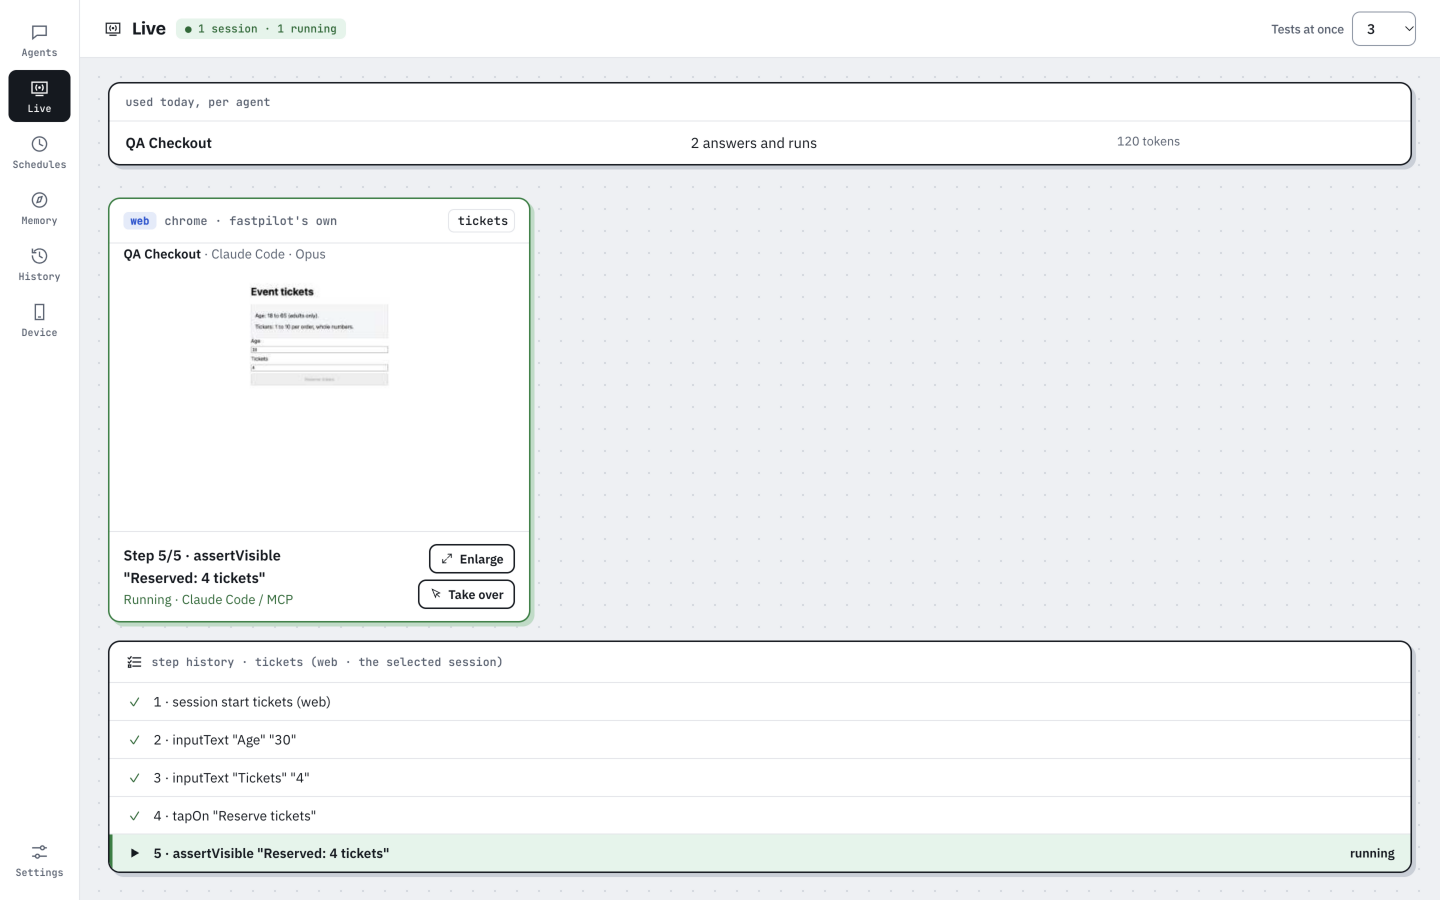
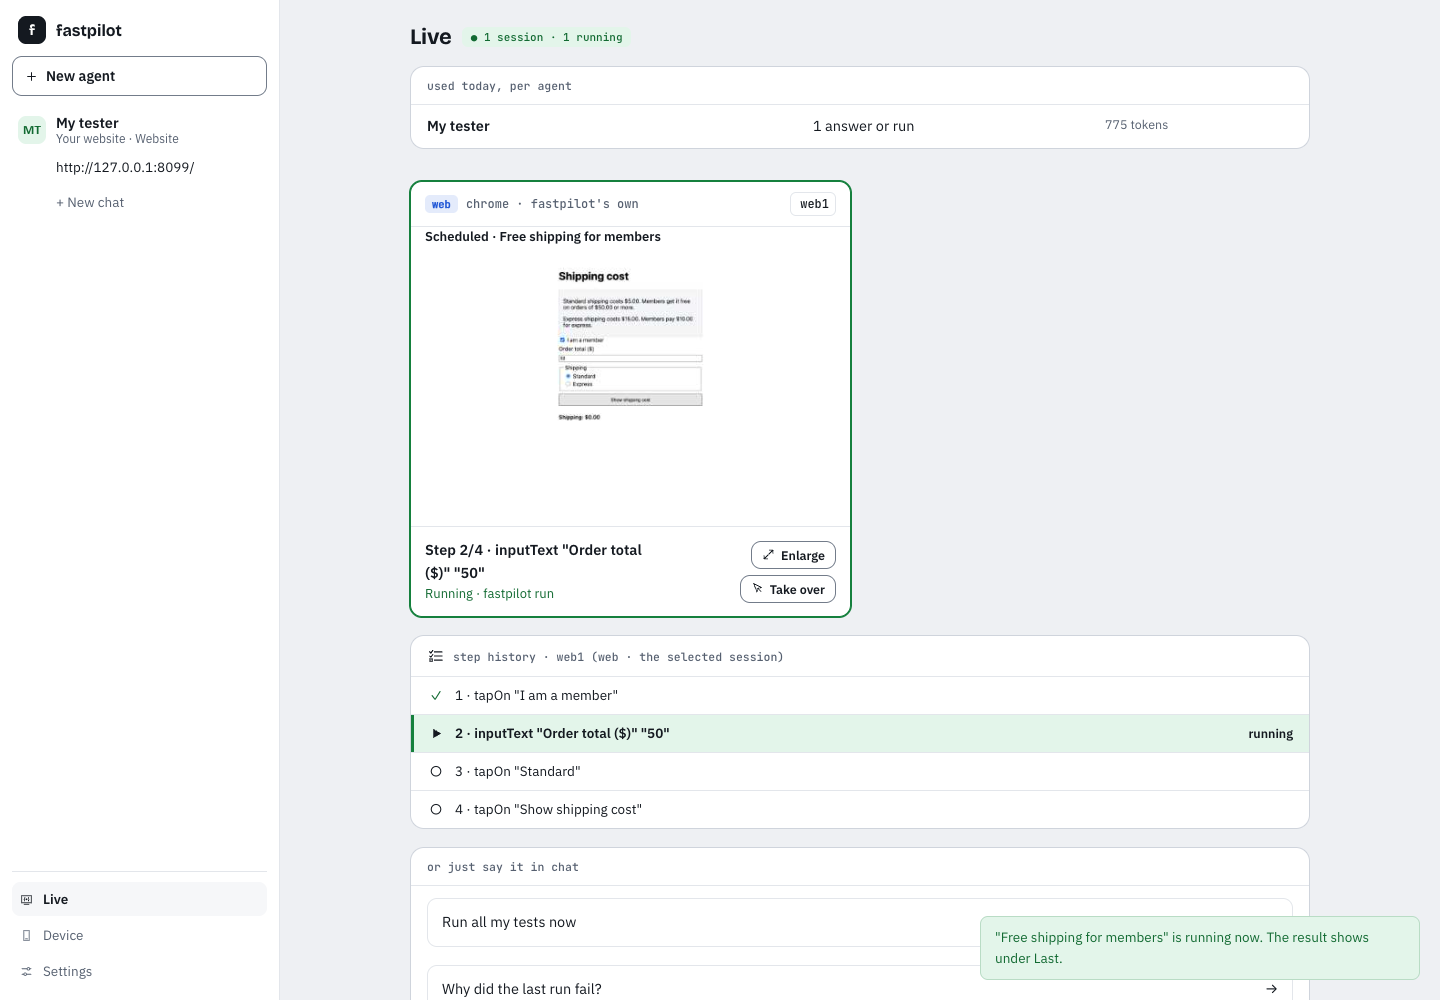
docs: README and guide for v0.7.1 (Chat first, Skills tab, Stop all, time limit, Recently removed)
Docs only, no code change. Every changed claim was checked against the code at
4ff72d9 and, for the screens, against a run of fastpilot 0.7.1 in a temporary
HOME (web only, no devices, demo data).

- Start: Chat is the first screen; a password asks for itself in the same
  answer with Save and run; no App switcher or Settings > Your apps (both are
  gone in 0.7.1).
- Guide steps: Settings (Secrets lists names with Replace and Remove, Security,
  Integrations), agents and the Skills tab (General QA always on, specialist
  switches), one-click Schedules, History > Recently removed, 30-day default.
- Added: Stop all, time limit in minutes, "remove my app", actions only from
  your own message; the Dashboard map and the "If you get stuck" table.
- Slack: the webhook still exists (Schedules > Other times, a Slack-compatible
  URL); the wording now says so.
- Screenshots retaken: 07 (Chat card), 08 (Live), 09 (Schedules), new 10 (Chat
  result line with Undo). 02 (Device) and the demo GIF keep the older look and
  say so.
- docs/guide.md: quick path to the README, Schedules "Other times", Settings
  and dashboard wording, Tools (23).

diff --git a/README.md b/README.md
@@ -5,11 +5,14 @@ You say what to check; AI runs it on your own computer, shows you every step liv
 what passed and what failed. Free, open source, no cloud. Payment and delete-account buttons are
 blocked from the start.
 
+New in 0.7.1: say what you want in Chat and it is done at once, with one line and **Undo**.
+See the [release notes](https://github.com/autobot-lab/fastpilot/releases/tag/v0.7.1).
+
+<img src="docs/images/07-chat-save-test.png" width="860" alt="The fastpilot dashboard. On the left, the agent My tester with its chat. In the chat, one sentence became a test card: the steps, a schedule every 2 hours, and the buttons Save and schedule, Save test only, Edit and Dismiss, with one-click schedules below them: Every 2 hours, Every night and Before each release.">
+
 <img src="docs/images/demo.gif" width="860" alt="A 60-second tour of fastpilot: one sentence in Chat becomes a test card, Save and schedule runs it every 2 hours, Live shows each step on web and on an Android emulator where the Pay button is blocked, and a failing test is explained in plain words.">
 
-*A 60-second tour, sped up where the AI is thinking. Chat turns one sentence into a test, Live shows each step on web and on an Android emulator (the Pay button is blocked), and a failing test says why.*
-
-<img src="docs/images/07-chat-save-test.png" width="860" alt="The fastpilot dashboard: an agent called QA Checkout gets one sentence in Chat and answers with a Save test and schedule card that lists the test steps, a schedule every 2 hours, and the buttons Save and schedule, Save test only and Edit.">
+*A 60-second tour, sped up where the AI is thinking. It was recorded with 0.5.1, so the dashboard looks different now; the steps are the same.*
 
 ## Start in 2 steps
 
@@ -30,11 +33,13 @@ fastpilot
 
 Your browser opens the dashboard. Keep the Terminal open while you use it; `Ctrl-C` closes it.
 
-- The first time, paste your app's address and click **Check the login**. fastpilot asks for the
-  test account right there, once, in a masked field. It is kept in this Mac's Keychain for that app
-  and typed only on that app's own website, never into the chat.
-- Your tests, schedules and notes live in `~/fastpilot`, one workspace for all your apps. Switch apps
-  at the top left.
+- The first screen is Chat. Paste your app's address (or say *"test my Android app"*) and fastpilot
+  adds the app itself. An address that does not load is not added. Then say *"check the login"*.
+- If the test needs a password, fastpilot asks for the test account right there, once, in a masked
+  field, in that same answer. Click **Save and run**. It is kept in this Mac's Keychain for that app
+  and typed only on that app's own website, never into Chat.
+- Your tests, schedules and notes live in `~/fastpilot`. Each app has its own tester (agent), listed on
+  the left.
 - The first `fastpilot` also adds fastpilot to Claude Code for every folder, so Claude Code can run
   your tests too.
 - Typed again while the dashboard runs, `fastpilot` opens the same dashboard with a fresh link.
@@ -50,7 +55,7 @@ Your browser opens the dashboard. Keep the Terminal open while you use it; `Ctrl
 Everything else happens in the dashboard.
 
 > Just want to look around first? Run `fastpilot demo` instead. It makes a demo folder with demo
-> pages and example tests, and opens the dashboard on it.
+> pages and example tests, and prints what to say to Claude Code to try them.
 
 ### Developer mode: tests next to your code (optional)
 
@@ -74,33 +79,42 @@ For CI, a password can also come from the environment (`export DEMO_PASS=...`).
 
 ### 1. Check your devices: **Device**
 Shows whether Chrome, Android, and iOS are ready, with a ✓ or the reason why not.
-- **Install Chrome** and **Set up an emulator** are one-click **Fix** buttons. Each asks you first,
-  showing the size and the time it takes.
+- **Install Chrome**, **Set up an emulator** and **Set up iPhone testing** are **Fix** buttons. Each
+  asks you first and says what it will do. They work only from this page, never from Chat.
 - **iPhone** testing needs a one-time setup with your Xcode (about 5 minutes).
 - Only web? Chrome is enough.
 
 <img src="docs/images/02-device.png" width="860" alt="fastpilot's Device page: two Android emulators installed on this computer, each with a Start button, and the iPhone simulators tests can use.">
 
-### 2. Pick the AI and store passwords: **Settings**
-- **AI model:** pick the provider, then the model. Claude Code is the default. Other providers
-  (OpenAI, OpenRouter, Groq, Ollama) also work, and are marked "not tested yet".
-- **Secrets:** add the names of passwords your tests need, for example `TEST_PASS`. Tests write them as
-  `${TEST_PASS}`, and they always show as `***`. Never type a password in Chat.
-- **Limits & permissions:** see the next section, "Safe from the start".
+*This picture of the Device page shows the older look.*
 
-### 3. Make an agent: **Agents › New agent**
-An agent is a tester with its own job, devices, instructions, and skills.
-- Fill in three things: what it tests, where (Web, Android emulator, iPhone simulator…), and its
-  instructions. Click a suggested instruction to add it.
-- **Skills** are ready-made test know-how, grouped by technique: boundary values, decision tables,
-  regression, safe checkout, and more. Suggested skills are already ticked, each with a reason.
-  With Atlassian's MCP server in Claude Code, three Jira skills turn tickets into tests, log a
-  failed run as a bug and post results; each write to Jira waits for your OK
-  ([setup](docs/guide.md#jira)).
-- Or simply describe the agent in one sentence in Chat and click **Create**.
+### 2. AI model and passwords: **Settings**
+- **AI model:** Claude Code is used by default, with your own sign-in and no API key. fastpilot picks
+  the models itself. Other providers (OpenAI, OpenRouter, Groq, Ollama) can be chosen and are marked
+  "not tested yet".
+- **Passwords:** you are not asked to add names first. The first time a check needs a password, a
+  masked field appears in the same answer in Chat: type it once and click **Save and run**.
+  **Settings › Secrets** only lists the passwords your tests use (names only, never values), with
+  **Replace** and **Remove**.
+- **Limits & permissions:** one "You are protected" statement, example changes you can click (they go
+  to Chat), and every limit under **Every limit**. See the next section, "Safe from the start".
+- **Security** lists the browsers you chose to remember. **Integrations** has Jira (**Sign in with
+  Atlassian**, Jira Cloud only), webhook and GitHub. A real Atlassian sign-in has not been tested by
+  the maker yet ([setup](docs/guide.md#jira)).
+
+### 3. Agents and skills
+An agent is a tester for one app. **My tester** is there from the start, and the tabs (Chat, Skills,
+Schedules, History, Memory, Map) show after your first saved test.
+- **New agent** (top left) asks for a website address, or say *"test my Android app"*. Or describe the
+  agent in one sentence in Chat and click **Create**.
+- The **Skills** tab: **General QA** (8 skills) is always on. Specialist skills are switches, grouped by
+  technique (equivalence partitions, boundary values, decision table, state transitions, pairwise),
+  checklists (safe checkout, login and one-time code, forms, accessibility, mobile) and acceptance
+  tests. Each switch acts at once, with Undo. **Back to General QA** turns them all off.
+- Jira skills appear after you connect Jira.
 
 You can have several agents, for example "Checkout" on web and "Login" on Android. Each has its own
-**Chat, Live, Schedules, Instructions, Skills, History** and **Agent settings**.
+chats, schedules, history, memory and map.
 
 ### 4. Ask for a test: **Chat**
 Write what you want in plain words:
@@ -114,43 +128,51 @@ Write what you want in plain words:
 | Before a release | *Is staging ready to ship?* (one verdict: SHIP, SHIP WITH FIXES, DO NOT SHIP) |
 | Understand a failure | *Why did the checkout test fail?* |
 
-When a test is ready, a card shows its steps: **Save & schedule** or **Save test only**. Nothing is
-saved before you click. The picture at the top of this page shows such a card.
+When a test is ready, a card shows its steps: **Save & schedule** or **Save test only**, or one of the
+one-click schedules under them. A test is saved only when you click. The picture at the top of this
+page shows such a card.
 
 ### 5. Watch it run: **Live**
 Watch every test step by step, on web, Android, and iOS. **Take over** if you need to tap something
 yourself, then hand it back to the AI. Several agents can run at the same time; a phone runs one
-test at a time and the others wait their turn.
+test at a time and the others wait their turn. Tests started by hand or by a schedule show up here too.
 
-<img src="docs/images/08-live.png" width="860" alt="The Live page: the QA Checkout agent is testing the event tickets page in Chrome; four steps are done and the fifth, waiting for the reservation message, is running, with Enlarge and Take over buttons.">
+<img src="docs/images/08-live.png" width="860" alt="The Live page: a scheduled test, Free shipping for members, is running in Chrome. Step 2 of 4 is running, step 1 is done, and the card has Enlarge and Take over buttons. The step history is listed below it.">
 
 ### 6. Run it automatically: **Schedules**
-- **Every N hours** (with active hours, for example 08:00–20:00), every day, or every week.
+- **One click:** three buttons run all of the app's tests by themselves: **Every 2 hours (8–20)**,
+  **Every night** (2:00) and **Before each release** (it runs when you ask Chat *"Can we release?"*).
+  A button that is on says **On · Turn off**.
 - **Run now** for any schedule.
-- **Release watch:** after a release, re-check every few minutes for a few hours and only tell you
-  about new problems.
-- Get notified by Slack webhook, Mac notification, or GitHub issue when something fails.
+- **Release watch** is one switch: after a release, re-check every 10 minutes for 2 hours and only
+  tell you about new problems. It ends by itself.
+- **Other times** (New schedule): pick which tests and when (every day, on weekdays or weekly).
+- When something fails you get a notification on this computer. Under **Other times** you can also
+  add a webhook (a Slack-compatible URL) or a GitHub issue.
 - Or just ask in Chat: *"run the checkout tests every 2 hours"*.
 
-<img src="docs/images/09-schedules.png" width="860" alt="The Schedules page: a test that runs every 2 hours from 08:00 to 20:00 and a release watch that checks every 10 minutes, each with its next run, a passed last run and a Mac notification on failure.">
+<img src="docs/images/09-schedules.png" width="860" alt="The Schedules page: three one-click cards (Every 2 hours, Every night, Before each release), a switch for the release watch, and a list with one schedule that runs every 2 hours from 08:00 to 20:00, with its next run, a passed last run and a notification on failure.">
 
 ### 7. See results: **History** and **Memory**
 - **History:** every run and every Chat conversation, with report, screenshots, and video. Delete
-  one, several, or all, or let them be deleted after 7, 30, or 90 days.
+  one, several, or all, or let them be deleted after 7, 30 (the default), or 90 days. Removed apps,
+  schedules, chats and agents are kept for 7 days under **Recently removed**, with **Restore**.
 - **Memory:** how each test is doing (Reliable, Unstable, Failing, Set aside), plus **project notes**
   every agent reads, for example *"Staging is https://staging.yourapp.com"* or *"Login uses a code"*.
 
 ## Dashboard map
 
-| Menu | What it's for |
+| Where | What it's for |
 |---|---|
-| **Agents** | Your testers: Chat, Live, Schedules, Instructions, Skills, History, Agent settings. Also the skill **Library** |
-| **Live** | Every running test, from all agents |
-| **Schedules** | All schedules and release watches |
+| **Chat** (agents and their chats, on the left) | Ask for anything (see "Control everything from Chat" below). **+ New chat** starts another chat |
+| **Skills** | General QA (always on) and specialist switches |
+| **Schedules** | One-click schedules, release watch, other times |
+| **History** | Past runs and conversations, **Recently removed** |
 | **Memory** | Test health and project notes |
-| **History** | Past runs and conversations |
+| **Map** | Which screens of your app have a test |
+| **Live** | Every running test, from all agents |
 | **Device** | Chrome, Android, iOS readiness and Fix buttons |
-| **Settings** | AI model, Limits & permissions, Secrets, Security (remembered browsers) |
+| **Settings** | AI model, Limits & permissions, Secrets, Security (remembered browsers), Integrations |
 
 ## Safe from the start
 
@@ -159,6 +181,8 @@ test at a time and the others wait their turn.
 - The AI can make the rules stricter, never looser. To loosen one, **you** approve it: Chat shows a red
   card that quotes what you asked, and allowing **Pay** also needs you to type "Pay". Text on a tested
   page can never ask for a change.
+- Actions start only from your own message. Text from a page or a ticket cannot start a change, a run
+  or a card.
 - Every change is kept in `~/.fastpilot/audit.jsonl`.
 
 Want to test a checkout for real? Ask in Chat: *"Allow the Pay button for this project"*, or open
@@ -189,6 +213,8 @@ In the dashboard Chat, what you ask for is done at once and shows as one line, s
 *Paused schedule “Every night” · its history is kept*, with **Undo** on it. Loosening a safety limit
 still needs your click on its red card, and a password is still typed only in its masked field.
 
+<img src="docs/images/10-chat-result-undo.png" width="860" alt="The fastpilot Chat: a pasted website address was added as the app of My tester, and the answer is one line, Added Your website, with an Undo button.">
+
 There is no setup form: paste your website's address in the dashboard Chat and it is added (an
 address that does not load is not added), or say *"test my Android app"* and pick it from the apps
 on the running emulator. A new address in an agent that already has an app makes a new agent.
@@ -202,6 +228,15 @@ Every change can be undone: the terminal prints `Undo: fastpilot undo <id>`, and
 shows what you can undo. Removing an app or a schedule keeps it 7 days (History › Recently removed,
 with Restore). A password is kept for its app in this Mac's Keychain
 and typed only on that app's own website, wherever you set it from.
+
+A few things to say in Chat:
+
+- *"remove my app"* removes the app of the chat you are in, kept 7 days, with Undo.
+- *"stop tests after 5 minutes"* sets the time limit per test in minutes (built in: 30). A shorter time
+  applies at once, with Undo. A longer one is a looser limit and needs the red card.
+- To stop everything an agent is running, click the agent's name at the top, then **Stop all** under
+  **Running now**. It stops every running chat of that agent, including the Claude Code and browsers
+  they started, and leaves other agents running. It shows only while something runs.
 
 ## Prefer the terminal?
 
@@ -227,14 +262,16 @@ fastpilot doctor
 | iPhone isn't ready | `fastpilot setup ios` (once, with Xcode) |
 | fastpilot doesn't show up in Claude | Run `fastpilot doctor`, then `fastpilot init --global` |
 | A test stops with "Blocked by limits" | That's on purpose. See **Settings › Limits & permissions** |
-| A test stops with "setup needed: the test needs the password …" | In Chat, click **Save and run** on the card and type it once (or Settings › Secrets). In CI: `export FASTPILOT_VARS=TEST_PASS TEST_PASS=...` |
-| A test stops with "a password of this app is only used on its own website" | On purpose: a saved password is typed and sent only to the app's own site. Check the app's website in Settings › Your apps |
+| A test stops with "setup needed: the test needs the password …" | In Chat, click **Save and run** on the card and type it once (or **Set value** in Settings › Secrets). In CI: `export FASTPILOT_VARS=TEST_PASS TEST_PASS=...` |
+| A test stops with "a password of this app is only used on its own website" | On purpose: a saved password is typed and sent only to the app's own site. Check the app's address with `fastpilot app list` |
+| A test or chat runs too long | Click **Stop** in the chat, or **Stop all** under the agent's name. Or say *"stop tests after 5 minutes"* |
 
 ## Learn more
 
 - **[Full guide](docs/guide.md)**: writing tests by hand, all settings, Android, iOS, Claude Desktop,
   devices on another computer, known limits
 - [Physical phones](docs/real-devices.md)
-- [Release notes](https://github.com/autobot-lab/fastpilot/releases)
+- [Release notes](https://github.com/autobot-lab/fastpilot/releases) (the latest is
+  [0.7.1](https://github.com/autobot-lab/fastpilot/releases/tag/v0.7.1))
 
 License: [Apache-2.0](LICENSE)

diff --git a/docs/guide.md b/docs/guide.md
@@ -7,6 +7,9 @@ steps you need to get going.
 
 You need: macOS or Linux, Chrome, and [Claude Code](https://claude.com/claude-code), already signed in.
 
+In a hurry? Run `fastpilot` and follow the [README](../README.md#start-in-2-steps): paste your app's address
+in Chat. The steps below use Claude Code in a terminal.
+
 **1. Install** (about 1 minute)
 
 ```bash
@@ -434,15 +437,17 @@ headful = true
 flow_timeout = 600
 ```
 
-**In the browser:** `fastpilot ui` opens the Live, Settings, and Device pages in your default browser (only
+**In the browser:** `fastpilot ui` opens the dashboard (Chat, Live, Schedules, History, Memory, Map, Device and
+Settings) in your default browser (only
 `127.0.0.1`, random port; `--no-open` only prints the link, `--port N` picks the port, `--help` shows help).
 The link holds a **one-time** code that is valid for 10 minutes. Once opened, the code is swapped for a session cookie
 and stops working (run `fastpilot ui` again for a new link). Run `fastpilot ui` yourself,
 not through an AI agent: anyone who opens the page can loosen the limits. If
 `config.toml` is broken, the Settings page shows the error and saves nothing until the file
 is fixed.
-It contains the AI model for `fastpilot run`, Limits & permissions, the names of your Secrets (their values never show), and
-the `doctor` results with a Check again button. Changes made on this page are user changes: they may
+Settings has the AI model, Limits & permissions, Secrets (names only, their values never show; **Replace** and
+**Remove**), Security (remembered browsers) and Integrations (Jira, webhook, GitHub). The Device page has the `doctor`
+results with a Check again button. Changes made on this page are user changes: they may
 loosen limits, they are written atomically to the file (mode 600), and they apply from the next run. All assets and fonts
 are inside the binary, so this page works without internet.
 
@@ -505,8 +510,9 @@ sent to the browser.
   tests and a ship check of the app's own address. **Watch for 2 hours after a release** is one switch: every
   10 minutes for 2 hours, the first run is the "before", and you hear only about a problem that is new since then.
 - `fastpilot ship-check` with no page checks the current app's address (Add app in the dashboard).
-- **More options** has the full form: which tests (picked from the list, nothing to type), other times,
-  Slack and GitHub messages (the GitHub repo is filled in from the project's own repo).
+- **Other times** (New schedule) has the full form: which tests (picked from the list, nothing to type), other
+  times, a webhook (a Slack-compatible URL) and GitHub messages (the GitHub repo is filled in from the
+  project's own repo).
 
 - Schedules are stored in `~/.fastpilot/schedules.json` and registered with the system scheduler **only when you
   save them**: a launchd LaunchAgent on macOS (`~/Library/LaunchAgents/dev.fastpilot.schedule.<id>.plist`),
@@ -679,7 +685,11 @@ Every env below (except `FASTPILOT_STATE_KEY` and `FASTPILOT_LOG`) can also go i
 | `FASTPILOT_CHROME_ENDPOINT` | Chrome on another computer for all web sessions: `http://host:port` or `ws://...` |
 | `FASTPILOT_LOG` | tracing filter, e.g. `debug` (logs go to stderr; stdout is used by MCP) |
 
-## Tools (14)
+## Tools (23)
+
+The 14 below are for driving a test, plus `related_tests` and the Jira tools. Nine more do what the dashboard pages
+do: `apps`, `tests`, `schedules`, `map`, `ship_check`, `secrets`, `memory`, `history` and `agents`. No tool takes a
+password's value.
 
 | Tool | Purpose |
 |---|---|
